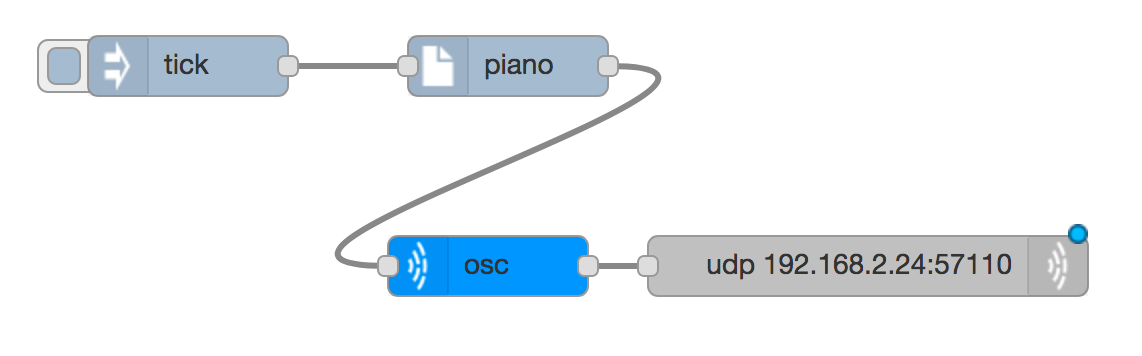
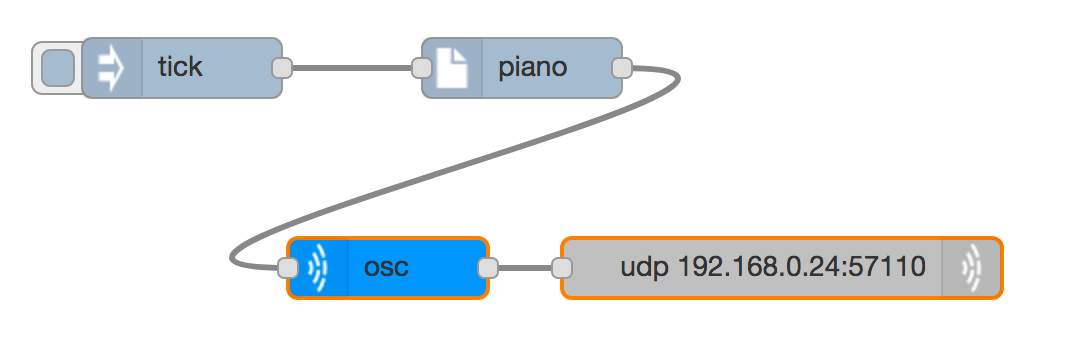
updates after first pilot day

Changed region(s): [[0.2143, 0.435, 0.9796, 0.8701], [0.0306, 0.0932, 0.6429, 0.435]]

diff --git a/node-red-contrib-music/controlling-synths.md b/node-red-contrib-music/controlling-synths.md
@@ -1,0 +1,55 @@
+# Controlling Synths
+
+
+## Volume controls
+
+All the synths that we use have a volume control, which goes from 0 to 100, and you can control this either through configuration or by sending a message to the synth with the `volume` as the message `topic`. This allows us to change the volume of the synth while it is running.
+
+One way of allowing us to change the pitch is to build a User Interface (UI) component. To demonstrate this, first of all connect a `beatgenerator` (imported) to a piano synth and then an imported `supercolliderOSC` to play a piano note repeatedly like this
+
+![Repeated piano notes](piano-repeat.png)
+
+Next add a `slider` node from the _dashboard_ section of the palette. We want this to create messages with the topic `volume` when the slider is dragged. The configuration for the slider looks like this
+
+![Slider configuration](slider-configure.png)
+
+You have to specify a sensible range for the values (in this case 0 to 100) and a topic for the messages it sends (in this case `volume`). If you want you you can also change `Label`, which is how it will be shown in the UI, and `Name`, which is how it is shown in the workspace. You will also get complaints from node-red about it not being configured correctly if you don't provide a `Group` that it belongs to, which may have to be a `new ui_group` if you haven't built one before.
+
+Although the slider can receive inputs, which will update the value, we don't need this here, we just connect the output od the slider to the input of the synth (or synths) that we want to control, so we get a flow like this:
+
+![Volume slider flow](volume-slider.png)
+
+But when you deploy this and start the beat, no slider appears. This is because the user interface (UI) is provided on another page. Open a new tab on the browser and enter the URL
+
+```http://127.0.0.1:1880/ui```
+
+There you will see a slider which you can drag up and down to change the volume of the synth. If you add more UI components to your flows then they will also appear in the UI.
+
+In the `music` section of the palette there is a another node type called `setting` which you can use to remember and control values. The difference is that instead od responding to UI actions like dragging a slider, it responds to incoming messages like `up:5`. Here the `topic` is `up` and the payload is `5`. The `setting` node has to be configured with a `setting` (which is used as the topic of the messages it sends) as an initial value, and a minumum and maxiumum value.
+
+If you import the `volume control` flow, you will get a `setting` node and a `slider` node tied together, so that if one changes then the other is changed too. There are also inject nodes for turning the volume up and down. If you connect the output of either the `slider` or `setting` nodes to the input of a `synth`, you can control the volume of the synth either way with a flow like this.
+
+![Volume control flow](volume-control.png)
+
+## Tempo controls
+
+You can also control the tempo via a slider, by using a `topic` of `bpm` and sending the messages to the input of the `beat` node. Again you can import another volume control, and change the `setting` and `slider` nodes to say `bpm` instead of `volume` (in several places) so you can control the speed of the beat either with messages or with a slider.
+
+## Synth types and synth parameters
+
+All synths have a volume control, and the pitch is controlled by the `note` value that is sent. Some synths have other controls too, which allow for closer control of the timbre of the sound.
+
+A good example of this is the `ghost` synth. It works by generating "White noise" and filtering out some of the higher sound frequencies. The filter that is used also allows for some _resonance_ so that a clearer note emerges. We can control this by sending messages with topic `synthcontrol:resonance` and a `payload` value between 0 and 100. This can all be done with a slider like this:
+
+![Resonance slider](resonance-slider.png)
+
+Otherwise you could import a `volumecontrol` and change all the `volume` configurations to `synthcontrol:resonance`.
+
+Other synth types also have parameters you might like to change with a `synthcontrol:` topic, such as
+
+* `snare` has a parameter `snare_brightness` which you can vary from 0 to 1000
+* `kick`  has a parameter  `sustain` which you can vary from 0 to 1 (you will want to make the step size something like 0.01) and a parameter `beater_noise_level` which can vary from 0 to 0.1
+* `blip` has parameters `att` and `rel` which control the attack time and release time - the amount of time in seconds it takes for the sound to start and end. The standard values are 0.01 for `att` and 1 for `rel` but you could make them any range you wanted
+* `prophet` has many parameters, including `lforate`, which is usually 10
+
+With all of these features of sound that you can control,you have enough knowledge to try [creating](creating) a larger piece of music.

diff --git a/node-red-contrib-music/networking-and-collaborating.md b/node-red-contrib-music/networking-and-collaborating.md
@@ -6,20 +6,29 @@ We can join all of our computers together so they can send messages to each othe
 
 When a computer joins a network it is given an address (its Internet Protocol/IP address) which can be thought of like an electronic postcode. If the computer moves to a different network it is given a different IP address. To send a message to a computer you need to know its IP address. There may also be a name associated with an IP address - websites have a name in their web address, but we're not using names here. Most IP addresses are made up of four numbers with dots in between like `129.234.200.1`
 
-Our little network is not interconnected with other networks (internetworking or internet for short) so we use a special set of IP addresses that start with 192.168.2. Because all of the computers on our network are running SuperCollider servers we can get our node-red servers to send synthesiser instructions to other computers like this
+Our little network is not interconnected with other networks (internetworking or internet for short) so we use a special set of IP addresses that start with 192.168.0. Because all of the computers on our network are running SuperCollider servers we can get our node-red servers to send synthesiser instructions to other computers like this
 
 ![Distributed SuperCollider](programs-distributed.svg)
 
-To send to another computer we can go back to our first sound flow (in [making music](making-music)) but configure the udp node to point to a different IP address (labelled "Address" in the configuration). Change 127.0.0.1, which will always point to the current machine, and replace it with a value starting with 192.168.2. as in this example
+To send to another computer we can go back to our first sound flow (in [making music](making-music)) but configure the udp node to point to a different IP address (labelled "Address" in the configuration). Change 127.0.0.1, which will always point to the current machine, and replace it with a value starting with 192.168.0. as in this example
 
 ![Remote SC server](remote-sc.png)
 
 By replacing the last part of the IP address and trying it out, you should be able to work out the IP addresses of all the other machines on the network. Note that not all IP addresses will point to a computer.
+
+This will only work with synth types that are not sustained, otherwise you will end up creating a "zombie" synth on somebody else's machine, that they can't turn off. If you end up with a zombie synth you will have to restart SuperCollider with
+```
+./startsc.sh
+```
+and then redeploy all of the nodes in node-red.
 
 Use this to make a list of the IP addresses of all the computers in the network.
 
 ## <a name='collaborating'></a>Collaborating
 
 With all these music-enabled computers we have something much better than a stereo sound system because that only has two channels. Here each computer has its own channel of sound, and can send sound to any other channel.
+
+Try sending a series of beats to different machines around the room by using the same `beat_of_bar` technique use in the `drumbeat` example. But this time, instead of sending the ticks to different synth types on the same machine, send them to the same synth type on different machines. You will need to import and reconfigure a `supercolliderOSC` for each machine that you send it to.
+
 
 Putting all of these together will allow us to make some great collaborative music with really interesting textures. We know how to change the volume of things (dynamics) and the speed of things (tempo) as well as the sound they make (timbre) and the structure of the music in bars and sections. But there are two really important dimensions of music that we need to look at first: pitch and duration. Those come under [sequencing](sequencing)

diff --git a/node-red-contrib-music/sequencing.md b/node-red-contrib-music/sequencing.md
@@ -6,6 +6,8 @@ If you can read this you know the letters a, b, c, ... If you have learnt music 
 
 These pitches only apply to instruments that can play a tune (unlike most drums), so we are going to do this with a `sequencer` node that takes beats from a beat generator and feeds notes into a `piano` synth node.
 
+## Using a sequencer
+
 First delete everything you've got. If you want to save it before you delete it use the _Export_ menu option.
 
 Next import a beatgenerator and a supercolliderOSC. In between them put a `sequencer` node and a `synth` node (piano) so you get something like this:
@@ -22,7 +24,7 @@ When that is deployed and the beat is started you will hear a repeating pattern 
 
 The sequencer counts input events (beats) according to the `list of lengths` in the configuration. When the next note is due, the note number is taken from the `list of notes`, and that changes the pitch of the note that is sounded. These can be selected randomly, instead of in the order they are entered. You have to use the square brackets and commas as they are shown in the example, but you can have lists that are shorter or longer for the `list of notes` and `list of lengths`.
 
-Things to try:
+## Things to try
 
 * Make a longer sequence of notes and lengths
 * Use a synth that has sustain, such as moog. This synth is best for low notes, so configure the synth with an octave of -2. Leaving gaps is sometimes very effective, but if you want to do this with a sustaining synth you will need to use a null value e.g. [1,4,5,null]. Sustained synths will not work properly on other  computers
@@ -32,4 +34,4 @@ Things to try:
 * Try 'phasing', as often used by the modern composer Steve Reich. First select quite a long list of notes, maybe eight of them, and a very simple list of lengths, maybe just the number 1. Then copy and paste the sequencer (use Ctrl-C and Ctrl-V) and add or remove one number from the list of lengths. Connect it up in the same way so that both sequencers are going at the same time. You can either feed the two sequencers into the same synth or give them each their own synth.
 * Add in a drum beat at the same time (import it and connect it up). Having a simple list of lengths that do not add up to the bar length and playing it alongside the drum beat makes an interesting sound
 
-Now you have enough knowledge to try [creating](creating) a larger piece of music.
+As well as controlling the pitch of a note, you can [control other features of the sound](controlling-synths) too.

diff --git a/node-red-contrib-music/getting-started.md b/node-red-contrib-music/getting-started.md
@@ -51,7 +51,9 @@ At the terminal (also known as the command prompt) you need to start the first s
 
 ```./startsc.sh```
 
-You should see various bits of output while SuperCollider gets set up and connected to the audio system on the computer. Once it is finished you can start the node-red by typing this at the terminal
+You should see various bits of output while SuperCollider gets set up and connected to the audio system on the computer. If you ever get a problem with your SuperCollider server (e.g. a "zombie" synth that keeps on playing) you can restart the SuperCollider server at any time with this command.
+
+Once it is finished you can start the node-red by opening another terminal and typing
 
 ```node-red```
 
@@ -59,6 +61,7 @@ Next start up the web browser with this icon in the top left hand corner
 
 ![Browser icon](browser-icon.png)
 
+The web browser opens with this documentation as the home page. To keep the documentation available, open a new tab in the browser for accessing node-red. 
 Finally, point the web browser to the node-red server by typing the following URL into the browser
 
 ```127.0.0.1:1880```

diff --git a/node-red-contrib-music/README.md b/node-red-contrib-music/README.md
@@ -6,4 +6,5 @@
 * [Making music](making-music)
 * [Networking and collaborating](networking-and-collaborating)
 * [Sequencing](sequencing)
+* [Controlling synths](controlling-synths)
 * [Creating](creating)
